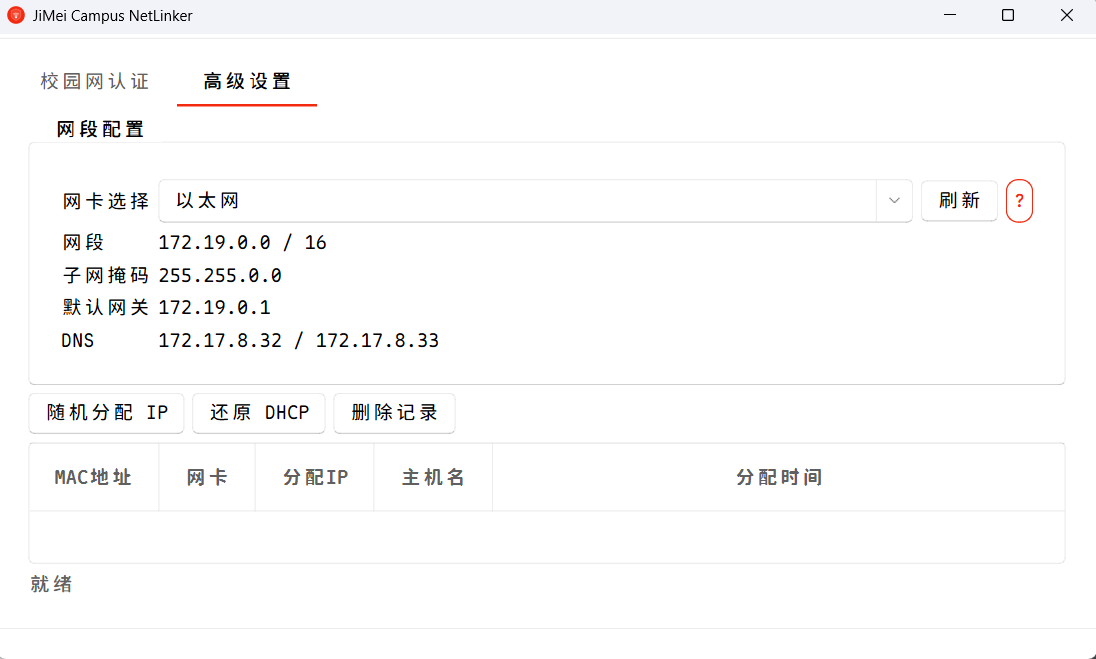
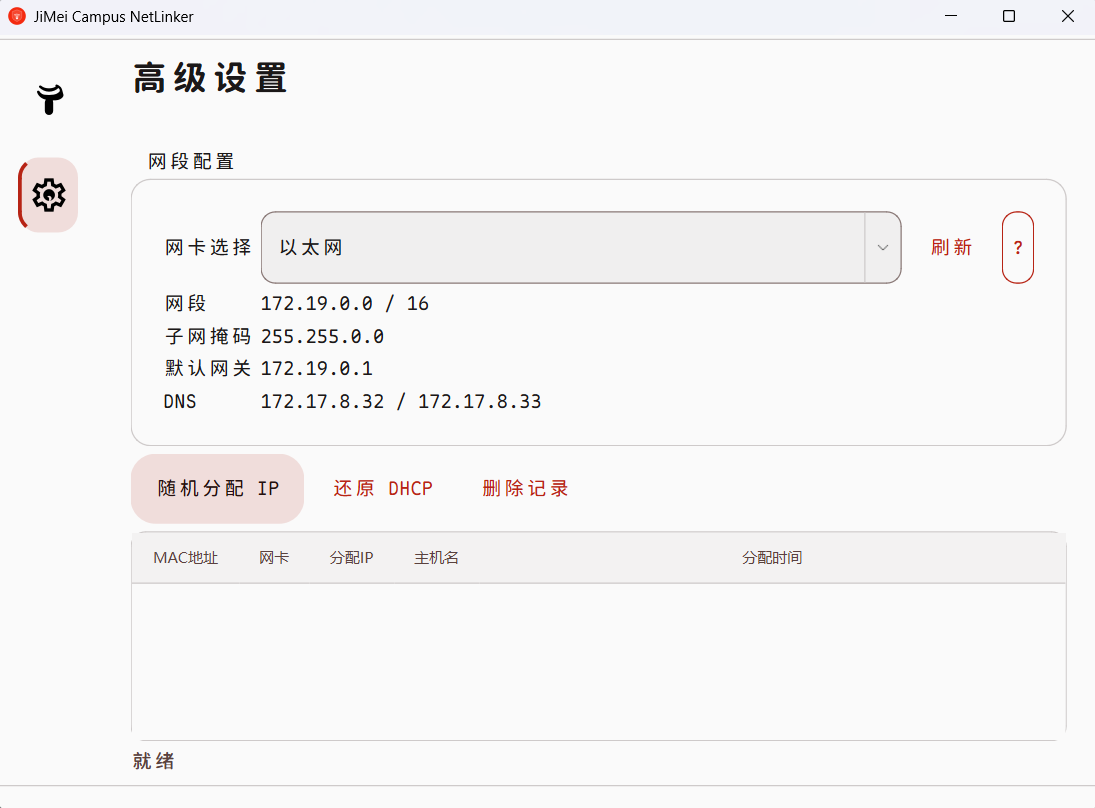
docs: rewrite README for current Material You theme and Navigation Rail

diff --git a/README.md b/README.md
@@ -1,8 +1,8 @@
 # JiMei Campus NetLinker
 
-集美大学校园网认证客户端，支持 Eportal 登录 / 退出、断网自动重连、静态 IP 管理。
+集美大学校园网认证客户端，基于 Qt 6.10.2、C++17、MinGW 64-bit。
 
-基于 Qt 6.10.2，C++17，MinGW 64-bit。
+Material Design 3 风格界面，JMU 红配色。
 
 ## 截图
 
@@ -14,29 +14,26 @@
 
 ### 校园网认证
 
-- 校园网 Eportal 登录 / 退出
-- 支持教育网、电信、联通、移动四种运营商
+- Eportal 校园网登录 / 退出，支持教育网、电信、联通、移动四种运营商
 - 记住密码（Windows DPAPI 加密存储）
-- 在线状态检测（60s 间隔轮询）
-- 断网自动重连（最多 3 次）
+- 在线状态自动检测（60s 轮询），断网自动重连（最多 3 次）
 - 系统托盘最小化、开机自启
 
 ### 高级设置
 
-- 网卡选择与静态 IP 分配（172.19.0.0/16 网段）
-- 随机 IP 防冲突（SQLite 记录已分配 IP）
+- 物理网卡识别与选择（优先以太网 / WLAN）
+- 随机静态 IP 分配（172.19.0.0/16 网段，SQLite 防冲突）
 - 一键还原 DHCP
-- IP 分配历史记录查看与删除
-- 适配真实物理网卡（优先以太网 / WLAN）
+- IP 分配历史记录查看、删除、导出
 
 ## 构建
 
 ### 依赖
 
-- Qt 6.10.2（Widgets / Network / Sql）
+- Qt 6.10+（Widgets / Network / Sql）
 - MinGW 64-bit
 - CMake ≥ 3.16
-- Windows SDK（netsh.exe 需要管理员权限）
+- 需要管理员权限（netsh）
 
 ### 编译
 
@@ -51,43 +48,42 @@ cmake --build build
 build_release.bat
 ```
 
-需要 `windeployqt` 在 PATH 中。
-
 ## 架构
 
 ```
-JMCampusNetLinker
-├── main.cpp              # 入口，字体/图标/主题加载
-├── MainWindow.h/cpp      # 主窗口，认证流程调度，托盘，自启
-├── EportalAuth.h/cpp     # Eportal HTTP 认证（登录/登出）
-├── NetworkChecker.h/cpp  # 在线状态探测（HTTP 204）
-├── IpManager.h/cpp       # netsh 静态 IP 操作（QThread worker）
-├── IpManagerWidget.h/cpp # 高级设置页 UI
-├── IpRecord.h/cpp        # SQLite IP 分配记录
-├── ThemeManager.h/cpp    # 主题色管理，QSS 变量替换
-├── theme.qss             # Material You 样式表
-├── mainwindow.ui         # 主窗口 UI 布局
-└── resources.qrc         # 图标资源
+JMCampusNetLinker/
+├── main.cpp                # 入口：字体加载、主题应用、窗口启动
+├── mainwindow.ui           # 主窗口 UI（Navigation Rail + QStackedWidget）
+├── MainWindow.h/cpp        # 主窗口：认证调度、托盘、自启、在线监控
+├── NavigationRail.h/cpp    # Material 3 左侧导航栏（仅图标）
+├── EportalAuth.h/cpp       # Eportal HTTP 认证（登录 / 登出）
+├── NetworkChecker.h/cpp    # 在线状态探测（HTTP GET → 204）
+├── IpManager.h/cpp         # netsh 静态 IP 管理（QThread worker）
+├── IpManagerWidget.h/cpp   # 高级设置页 UI
+├── IpRecord.h/cpp          # SQLite IP 分配记录
+├── ThemeManager.h/cpp      # M3 色调色板引擎（30 个颜色令牌、QSS 变量替换）
+├── theme.qss               # Material You 全局样式表
+├── resources.qrc           # 图标资源
+├── fonts/                  # Maple Mono CN / NF CN 字体
+└── nav_*.svg               # 导航栏 SVG 图标
 ```
 
 ### 数据流
 
 ```
-用户点击登录 → MainWindow → EportalAuth::login()
-  → GET 探测页获取重定向 → POST 凭证 → 解析结果
-  → NetworkChecker 持续监控 → 断网触发 AutoRelogin
-```
+登录：MainWindow → EportalAuth::login()
+      → GET 探测页 → POST 凭证 → 解析结果
+      → NetworkChecker 持续监控 → 断网 → AutoRelogin
 
-```
-用户分配 IP → IpManagerWidget → IpManager::assignIp()
-  → QMetaObject::invokeMethod → IpWorker (QThread)
-  → netsh interface ip set address ...
-  → IpRecord 写入 SQLite
+IP 分配：IpManagerWidget → IpManager::assignRandomIp()
+         → QMetaObject::invokeMethod → IpWorker (QThread)
+         → netsh interface ip set address ...
+         → IpRecord 写入 SQLite
 ```
 
 ### 主题
 
-`ThemeManager` 单例管理主题色，`theme.qss` 使用 `{{M3Primary}}` 等 Material You 占位符，加载时自动替换。调用 `ThemeManager::instance().setThemeColor()` 即可运行时换肤。
+`ThemeManager` 从种子色（默认 `#D23B2C` JMU 红）生成完整 Material 3 色调色板——Primary、Secondary、Tertiary、Surface、Error 五大色系共 30 个颜色令牌。`theme.qss` 中所有颜色通过 `{{M3Primary}}` 等占位符引用，启动时自动替换。
 
 ## 许可
 
